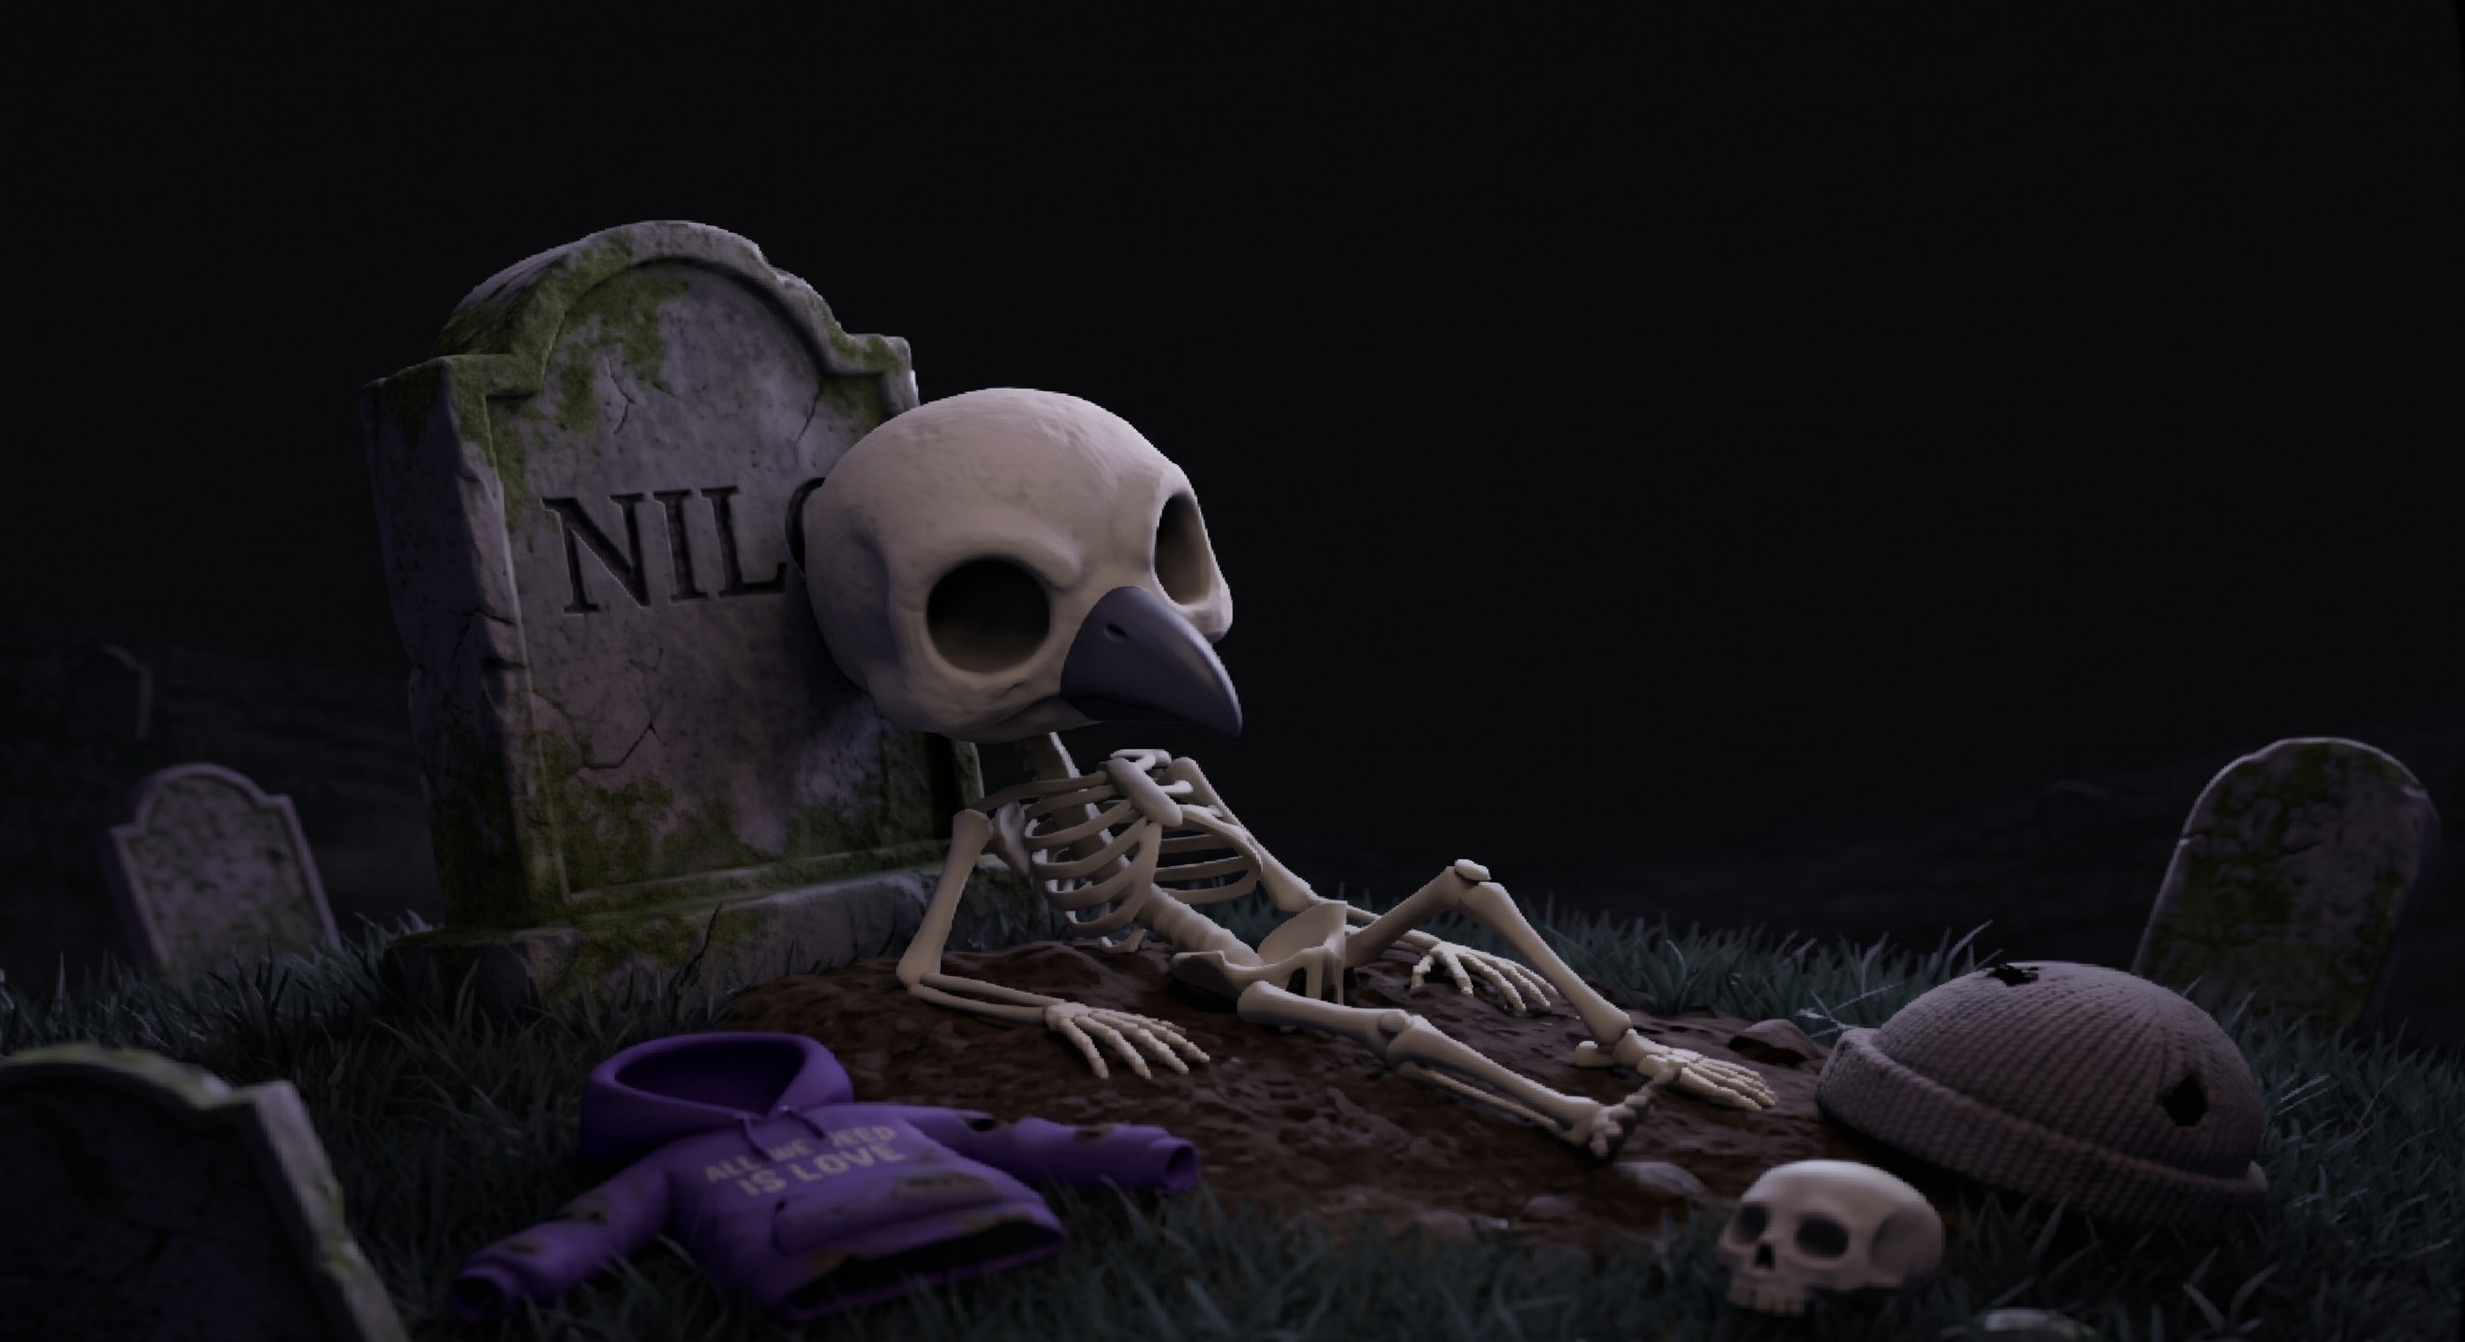
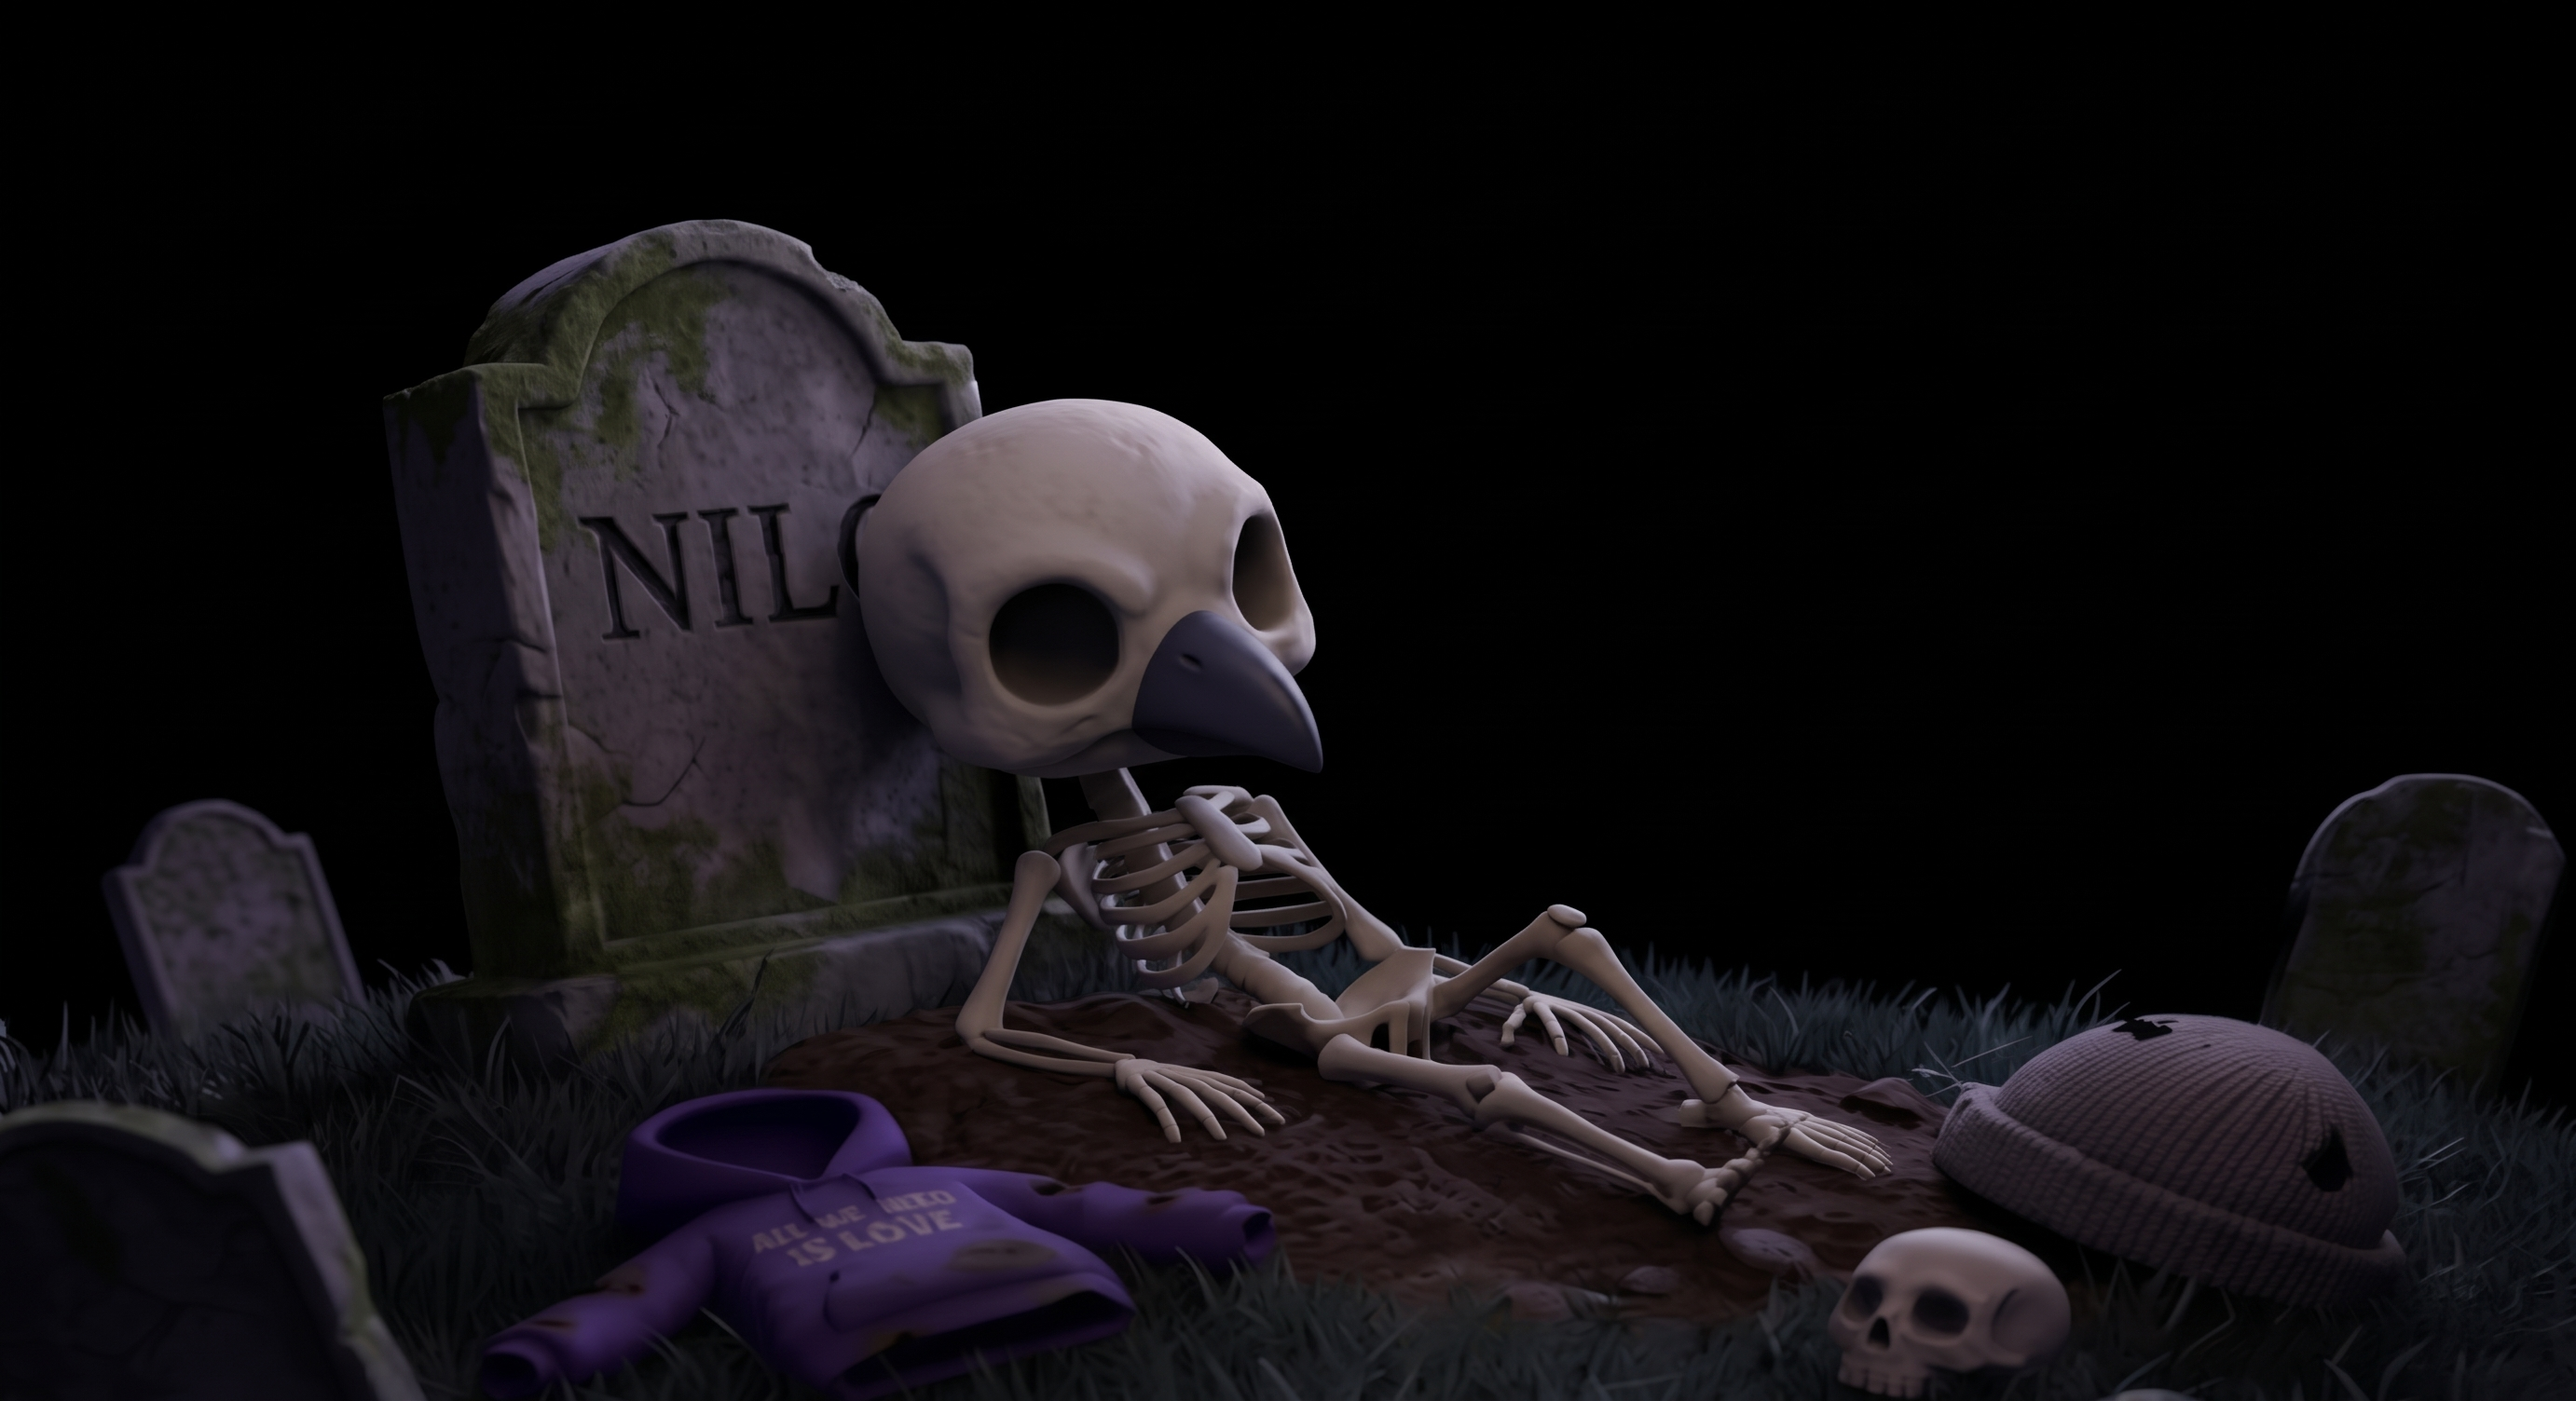
finish the front end

diff --git a/src/frontend/views/game_over.py b/src/frontend/views/game_over.py
@@ -1,2 +1,49 @@
+import tkinter as tk
+from tkinter import ttk, messagebox
+from PIL import Image, ImageTk
+import random
+import subprocess
+import time
+
+from ...backend import check_path
+from ...backend.models.programs import WindowsInstalled
+from ...backend.models.questions import QuestionMultiple, QuestionSimple
+
 class GameOverView():
-    pass
+    
+    def __init__(self, main_view:tk.Tk):
+        self.main_view = main_view;
+        self.show_game_over_view();
+        
+    def show_game_over_view(self):
+        self.game_over = tk.Frame(self.main_view)
+        self.game_over.pack(
+            fill="both", 
+            expand=True,
+        )
+        self.game_over.configure(
+            background="#000000"
+        )
+        
+        img_game0 = Image.open("./src/frontend/media/loser.jpg")
+        img_game1 = img_game0.resize((600,300),  Image.Resampling.LANCZOS)
+        self.img_game = ImageTk.PhotoImage(img_game1)
+                
+        self.label = tk.Label(self.game_over, image=self.img_game)
+        self.label.image = self.img_game
+        self.label.place(x=-100, y=200)
+        self.label.configure(
+            background="#000000"
+        )
+        
+        
+        img_game_title0 = Image.open("./src/frontend/media/title2.jpg")
+        img_game_title1 = img_game_title0.resize((400,200),  Image.Resampling.LANCZOS)
+        self.img_game_title = ImageTk.PhotoImage(img_game_title1)
+                
+        self.label_game_title = tk.Label(self.game_over, image=self.img_game_title)
+        self.label_game_title.image = self.img_game_title
+        self.label_game_title.place(x=50, y=30)
+        self.label_game_title.configure(
+            background="#000000"
+        )

diff --git a/src/frontend/views/win_game.py b/src/frontend/views/win_game.py
@@ -1,2 +1,52 @@
+
+
+import tkinter as tk
+from tkinter import ttk, messagebox
+from PIL import Image, ImageTk
+import random
+import subprocess
+import time
+
+from ...backend import check_path
+from ...backend.models.programs import WindowsInstalled
+from ...backend.models.questions import QuestionMultiple, QuestionSimple
+
+
 class WinGameView():
-    pass
+    
+    def __init__(self, main_view:tk.Tk):
+        self.main_view = main_view;
+        self.show_win_game_view();
+        
+    def show_win_game_view(self):
+        self.win_game = tk.Frame(self.main_view)
+        self.win_game.pack(
+            fill="both", 
+            expand=True,
+        )
+        self.win_game.configure(
+            background="#000000"
+        )
+        
+        img_game0 = Image.open("./src/frontend/media/winner.jpg")
+        img_game1 = img_game0.resize((500,300),  Image.Resampling.LANCZOS)
+        self.img_game = ImageTk.PhotoImage(img_game1)
+                
+        self.label = tk.Label(self.win_game, image=self.img_game)
+        self.label.image = self.img_game
+        self.label.place(x=0, y=200)
+        self.label.configure(
+            background="#000000"
+        )
+        
+        
+        img_game_title0 = Image.open("./src/frontend/media/title3.jpg")
+        img_game_title1 = img_game_title0.resize((400,200),  Image.Resampling.LANCZOS)
+        self.img_game_title = ImageTk.PhotoImage(img_game_title1)
+                
+        self.label_game_title = tk.Label(self.win_game, image=self.img_game_title)
+        self.label_game_title.image = self.img_game_title
+        self.label_game_title.place(x=50, y=30)
+        self.label_game_title.configure(
+            background="#000000"
+        )

diff --git a/src/frontend/views/question.py b/src/frontend/views/question.py
@@ -8,6 +8,8 @@ import time
 from ...backend import check_path
 from ...backend.models.programs import WindowsInstalled
 from ...backend.models.questions import QuestionMultiple, QuestionSimple
+from .game_over import GameOverView
+from .win_game import WinGameView
 
 class QuestionView():
     
@@ -16,18 +18,21 @@ class QuestionView():
         self.lifes = lifes
         self.questions = questions
         self.list_questions = list_questions
+        self.question = tk.Frame(self.main_view)
         self.timer_id = None
         
         if self.lifes>0 and self.questions>0:
             self.show_question()
             self.timer_id = self.question.after(1000, self.time_out)
         elif self.lifes == 0:
-            pass
+            self.game_over_view = GameOverView(main_view=self.main_view)
+            self.question.destroy()
         elif self.lifes > 0 and self.questions == 0:
-            pass
+            self.win_game_view = WinGameView(main_view=self.main_view)
+            self.question.destroy()
     
     def show_question(self):
-        self.question = tk.Frame(self.main_view)
+        
         self.question.pack(
             fill="both", 
             expand=True,
